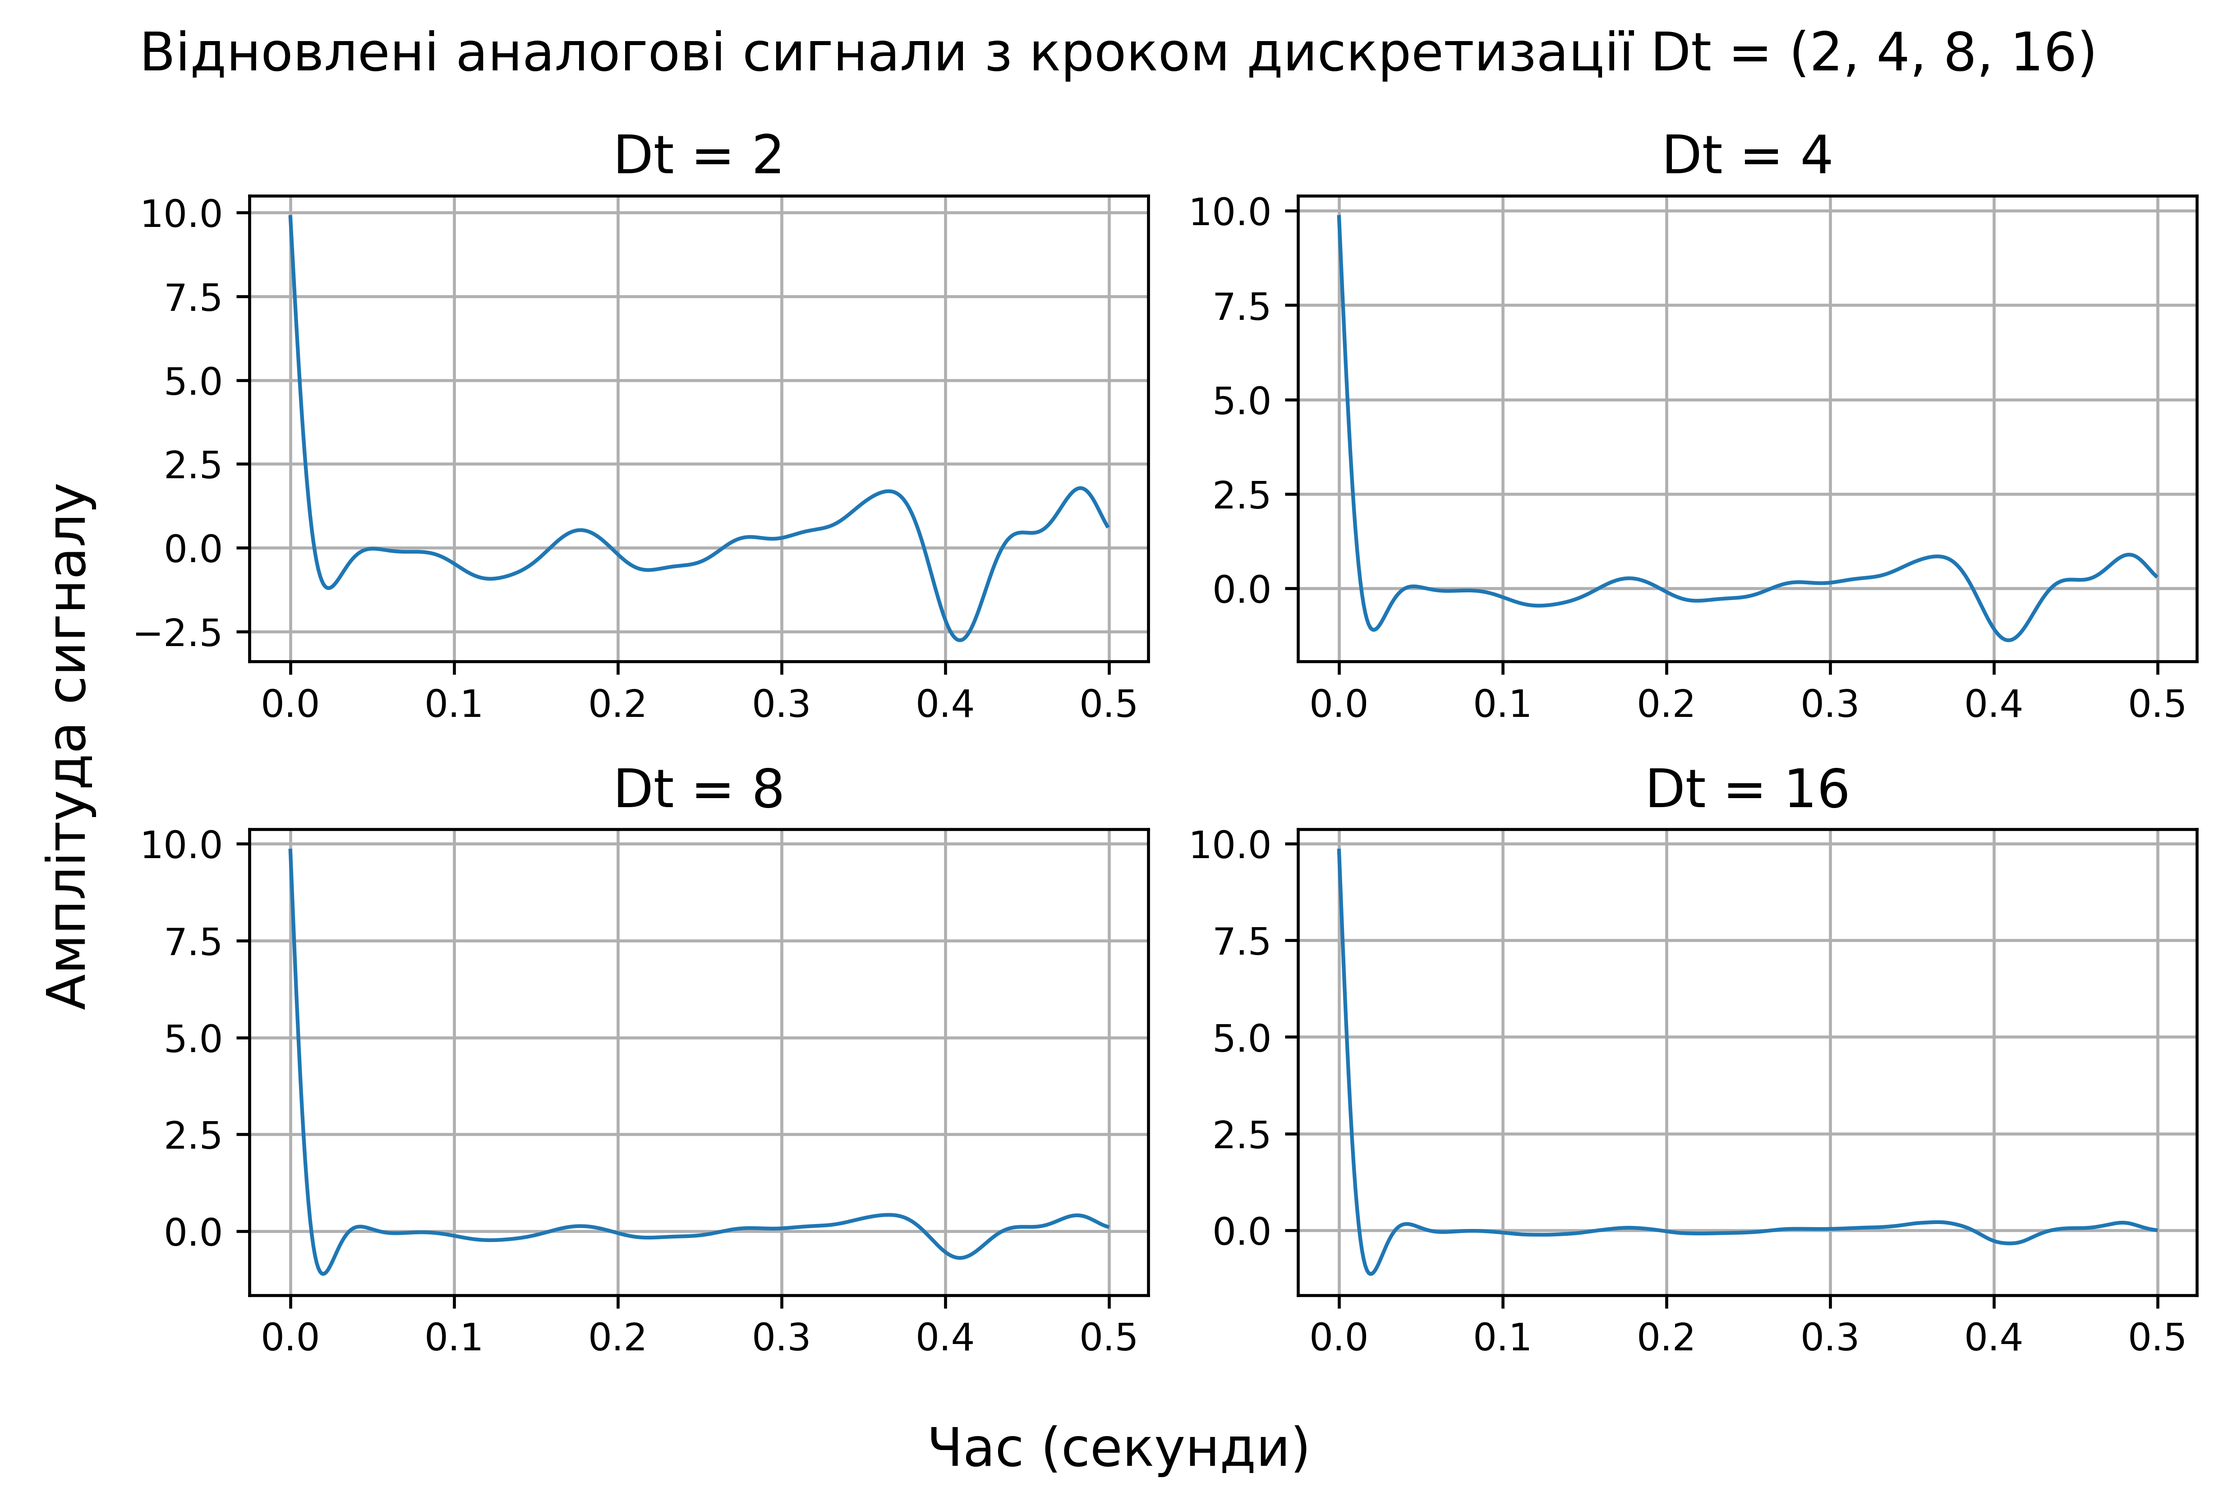
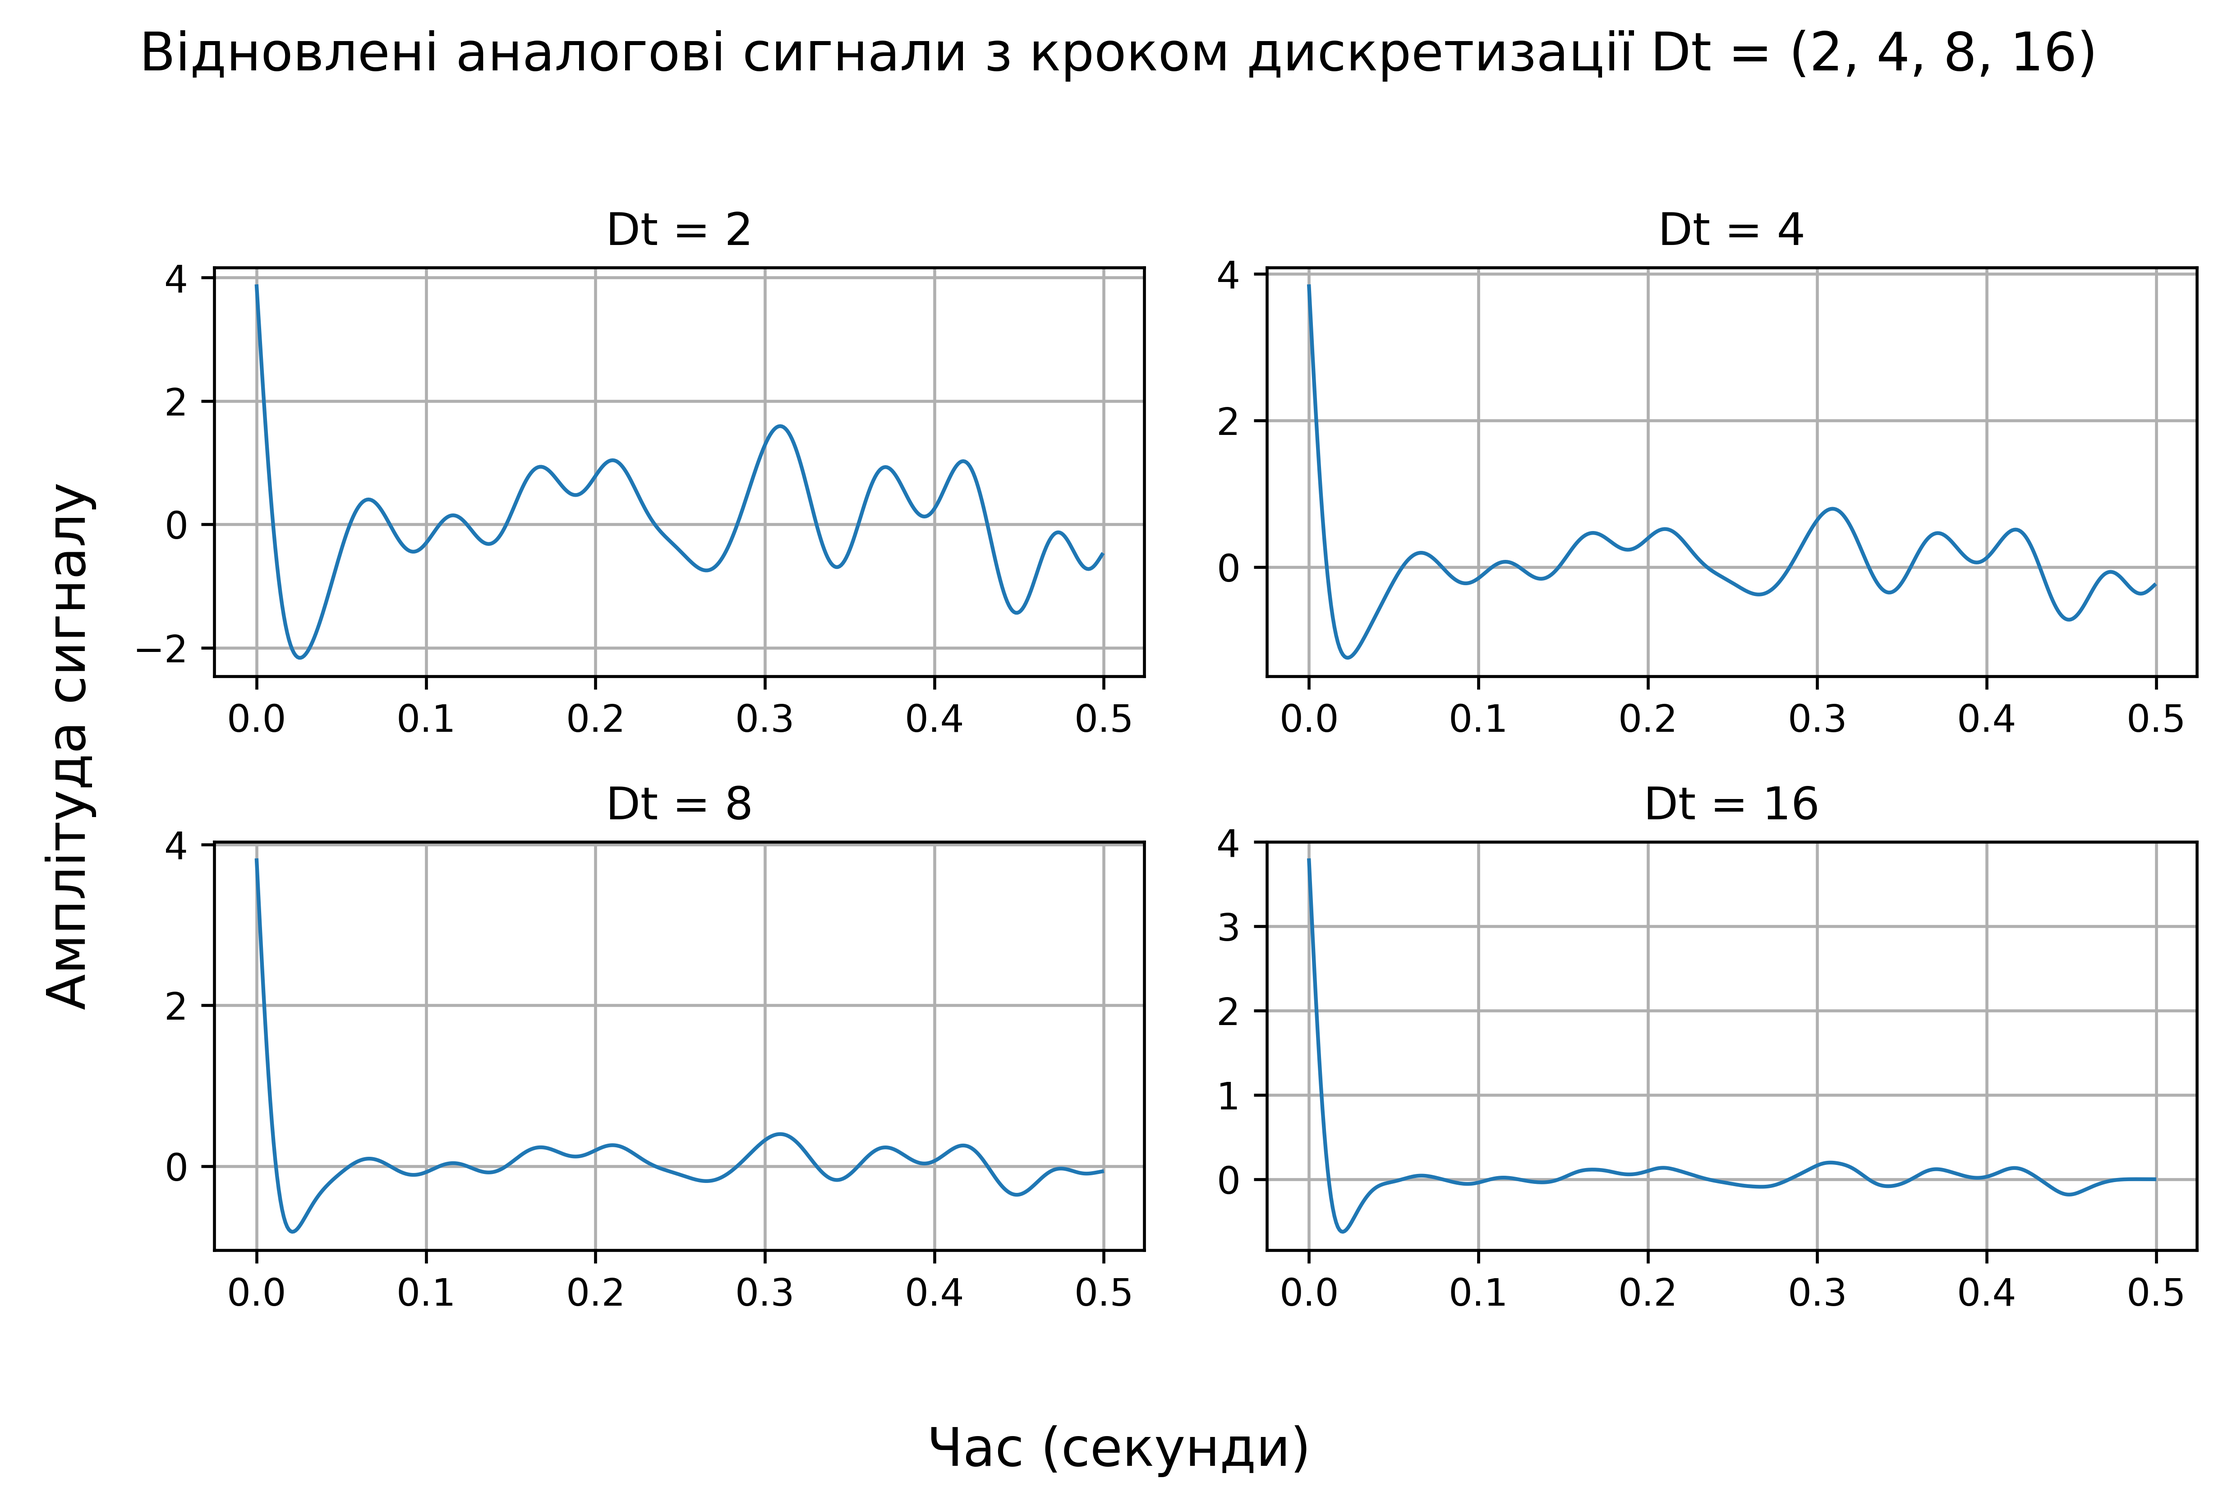
signalprocessing 3-rd  stage

diff --git a/SignalProcessing.py b/SignalProcessing.py
@@ -1,7 +1,7 @@
-import numpy as np
-from scipy import signal, fft
-import matplotlib.pyplot as plt
 import os
+import numpy as np
+import matplotlib.pyplot as plt
+from scipy import signal, fft
 
 
 def generate_signal(n, f_max, fs):
@@ -15,9 +15,22 @@ def generate_signal(n, f_max, fs):
     return time_values, filtered_signal
 
 
-def plot_graph(x, y, title, xlabel, ylabel, filename):
+def calculate_spectrum(sig, fs):
+    spectrum = fft.fft(sig)
+    spectrum_abs = np.abs(fft.fftshift(spectrum))
+    freq = fft.fftfreq(len(sig), d=1 / fs)
+    freq_shifted = fft.fftshift(freq)
+    return freq_shifted, spectrum_abs
+
+
+def plot_graph(x, y, title, xlabel, ylabel, filename, linewidth=1, step=False):
     fig, ax = plt.subplots(figsize=(21 / 2.54, 14 / 2.54))
-    ax.plot(x, y, linewidth=1)
+
+    if step:
+        ax.step(x, y, where='post', linewidth=linewidth)
+    else:
+        ax.plot(x, y, linewidth=linewidth)
+
     ax.set_xlabel(xlabel, fontsize=14)
     ax.set_ylabel(ylabel, fontsize=14)
     ax.set_title(title, fontsize=14)
@@ -27,37 +40,46 @@ def plot_graph(x, y, title, xlabel, ylabel, filename):
     plt.show()
 
 
-def plot_subplots(x, y_list, title, xlabel, ylabel, filenamesave, dt_values):
+def plot_subplots(x, y_list, subplot_titles, title, xlabel, ylabel, filename, step=False):
     fig, ax = plt.subplots(2, 2, figsize=(21 / 2.54, 14 / 2.54))
     s = 0
 
     for i in range(2):
         for j in range(2):
-            ax[i][j].plot(x, y_list[s], linewidth=1)
-            ax[i][j].set_title(f"Dt = {dt_values[s]}", fontsize=14)
+            if step:
+                ax[i][j].step(x, y_list[s], where='post', linewidth=1)
+            else:
+                ax[i][j].plot(x, y_list[s], linewidth=1)
+
+            ax[i][j].set_title(subplot_titles[s], fontsize=12)
             ax[i][j].grid(True)
             s += 1
 
     fig.supxlabel(xlabel, fontsize=14)
     fig.supylabel(ylabel, fontsize=14)
     fig.suptitle(title, fontsize=14)
-    fig.tight_layout()
-    fig.savefig(filenamesave, dpi=600)
+    fig.tight_layout(rect=[0, 0.03, 1, 0.95])
+    fig.savefig(filename, dpi=600)
     plt.show()
 
 
 if __name__ == "__main__":
-    # Варіант 9
+    np.random.seed(42)
+
+    # ---------------- Загальні параметри ----------------
     n = 500
     Fs = 1000
-    F_max = 19
-    F_filter = 26
+    F_max = 19          # Варіант 9 для ПР2/ПР4
+    F_filter = 26       # Варіант 9 для ПР3
     Dt_values = [2, 4, 8, 16]
+    M_values = [4, 16, 64, 256]
 
     if not os.path.exists("figures"):
         os.makedirs("figures")
 
-    # ---------------- ПР2: генерація сигналу ----------------
+    # ====================================================
+    #                   ПРАКТИЧНА РОБОТА 2
+    # ====================================================
     time_values, filtered_signal = generate_signal(n, F_max, Fs)
 
     plot_graph(
@@ -69,10 +91,7 @@ if __name__ == "__main__":
         f"./figures/Сигнал_Fmax_{F_max}Гц.png"
     )
 
-    spectrum = fft.fft(filtered_signal)
-    spectrum_abs = np.abs(fft.fftshift(spectrum))
-    freq = fft.fftfreq(n, d=1 / Fs)
-    freq_shifted = fft.fftshift(freq)
+    freq_shifted, spectrum_abs = calculate_spectrum(filtered_signal, Fs)
 
     plot_graph(
         freq_shifted,
@@ -83,15 +102,19 @@ if __name__ == "__main__":
         f"./figures/Спектр_Fmax_{F_max}Гц.png"
     )
 
-    # ---------------- ПР3 ----------------
+    # ====================================================
+    #                   ПРАКТИЧНА РОБОТА 3
+    # ====================================================
     discrete_signals = []
     discrete_spectrums = []
     restored_signals = []
-    variances = []
-    snr_ratios = []
+    variances_pr3 = []
+    snr_ratios_pr3 = []
+
+    w_restore = F_filter / (Fs / 2)
+    restore_filter = signal.butter(3, w_restore, 'low', output='sos')
 
     for Dt in Dt_values:
-        # Дискретизація сигналу
         discrete_signal = np.zeros(n)
 
         for i in range(0, round(n / Dt)):
@@ -99,75 +122,169 @@ if __name__ == "__main__":
             if index < n:
                 discrete_signal[index] = filtered_signal[index]
 
-        discrete_signals.append(discrete_signal.tolist())
+        discrete_signals.append(discrete_signal.copy())
 
-        # Спектр дискретизованого сигналу
-        discrete_spectrum = np.abs(fft.fftshift(fft.fft(discrete_signal)))
-        discrete_spectrums.append(discrete_spectrum.tolist())
+        _, discrete_spectrum = calculate_spectrum(discrete_signal, Fs)
+        discrete_spectrums.append(discrete_spectrum.copy())
 
-        # Відновлення сигналу через ФНЧ
-        w_restore = F_filter / (Fs / 2)
-        restore_filter = signal.butter(3, w_restore, 'low', output='sos')
         restored_signal = signal.sosfiltfilt(restore_filter, discrete_signal)
-        restored_signals.append(restored_signal.tolist())
+        restored_signals.append(restored_signal.copy())
 
-        # Дисперсія та співвідношення сигнал-шум
         E1 = restored_signal - filtered_signal
         variance_error = np.var(E1)
-        snr = np.var(filtered_signal) / variance_error
+        snr_value = np.var(filtered_signal) / variance_error if variance_error != 0 else np.inf
 
-        variances.append(variance_error)
-        snr_ratios.append(snr)
+        variances_pr3.append(variance_error)
+        snr_ratios_pr3.append(snr_value)
 
-    # Графік дискретизованих сигналів
     plot_subplots(
         time_values,
         discrete_signals,
+        [f"Dt = {dt}" for dt in Dt_values],
         "Сигнали з кроком дискретизації Dt = (2, 4, 8, 16)",
         "Час (секунди)",
         "Амплітуда сигналу",
-        "./figures/Дискретизовані сигнали.png",
-        Dt_values
+        "./figures/Дискретизовані сигнали.png"
     )
 
-    # Графік спектрів дискретизованих сигналів
     plot_subplots(
         freq_shifted,
         discrete_spectrums,
+        [f"Dt = {dt}" for dt in Dt_values],
         "Спектри сигналів з кроком дискретизації Dt = (2, 4, 8, 16)",
         "Частота (Гц)",
         "Амплітуда спектру",
-        "./figures/Спектри дискретизованих сигналів.png",
-        Dt_values
+        "./figures/Спектри дискретизованих сигналів.png"
     )
 
-    # Графік відновлених сигналів
     plot_subplots(
         time_values,
         restored_signals,
+        [f"Dt = {dt}" for dt in Dt_values],
         "Відновлені аналогові сигнали з кроком дискретизації Dt = (2, 4, 8, 16)",
         "Час (секунди)",
         "Амплітуда сигналу",
-        "./figures/Відновлені сигнали.png",
-        Dt_values
+        "./figures/Відновлені сигнали.png"
     )
 
-    # Графік дисперсії
     plot_graph(
         Dt_values,
-        variances,
+        variances_pr3,
         "Залежність дисперсії від кроку дискретизації",
         "Крок дискретизації",
         "Дисперсія",
         "./figures/Дисперсія від кроку дискретизації.png"
     )
 
-    # Графік співвідношення сигнал-шум
     plot_graph(
         Dt_values,
-        snr_ratios,
+        snr_ratios_pr3,
         "Залежність співвідношення сигнал-шум від кроку дискретизації",
         "Крок дискретизації",
         "ССШ",
         "./figures/ССШ від кроку дискретизації.png"
+    )
+
+    # ====================================================
+    #                   ПРАКТИЧНА РОБОТА 4
+    # ====================================================
+    quantized_signals = []
+    variances_pr4 = []
+    snr_ratios_pr4 = []
+
+    for M in M_values:
+        bits = []
+
+        delta = (np.max(filtered_signal) - np.min(filtered_signal)) / (M - 1)
+        quantize_signal = delta * np.round(filtered_signal / delta)
+        quantized_signals.append(quantize_signal.copy())
+
+        quantize_levels = np.arange(np.min(quantize_signal), np.max(quantize_signal) + delta, delta)
+        if len(quantize_levels) < M:
+            quantize_levels = np.linspace(np.min(quantize_signal), np.max(quantize_signal), M)
+
+        quantize_levels = np.round(quantize_levels[:M], 10)
+
+        bit_count = int(np.log2(M))
+        quantize_bit = [format(i, '0' + str(bit_count) + 'b') for i in range(M)]
+
+        quantize_table = np.c_[quantize_levels, quantize_bit]
+
+        # Таблиця квантування
+        fig_table, ax_table = plt.subplots(figsize=(14 / 2.54, M / 2.54))
+        table = ax_table.table(
+            cellText=quantize_table,
+            colLabels=['Значення сигналу', 'Кодова послідовність'],
+            loc='center'
+        )
+        table.set_fontsize(14)
+        table.scale(1, 2)
+        ax_table.axis('off')
+        fig_table.tight_layout()
+        fig_table.savefig(f"./figures/Таблиця квантування для {M} рівнів.png", dpi=600)
+        plt.show()
+
+        # Кодування сигналу у біти
+        level_to_bit = {level: bit for level, bit in zip(quantize_levels, quantize_bit)}
+
+        for signal_value in quantize_signal:
+            rounded_value = np.round(signal_value, 10)
+
+            if rounded_value in level_to_bit:
+                bits.append(level_to_bit[rounded_value])
+            else:
+                nearest_index = np.argmin(np.abs(quantize_levels - signal_value))
+                bits.append(quantize_bit[nearest_index])
+
+        bits = [int(item) for item in ''.join(bits)]
+
+        # Графік бітової послідовності
+        fig_bits, ax_bits = plt.subplots(figsize=(21 / 2.54, 14 / 2.54))
+        ax_bits.step(np.arange(0, len(bits)), bits, where='post', linewidth=0.1)
+        ax_bits.set_xlabel('Біти', fontsize=14)
+        ax_bits.set_ylabel('Амплітуда сигналу', fontsize=14)
+        ax_bits.set_title(
+            f'Кодова послідовність сигналу при кількості рівнів квантування {M}',
+            fontsize=14
+        )
+        ax_bits.grid(True)
+        fig_bits.tight_layout()
+        fig_bits.savefig(f"./figures/Кодова послідовність для {M} рівнів.png", dpi=600)
+        plt.show()
+
+        # Дисперсія та ССШ
+        error_signal = quantize_signal - filtered_signal
+        variance_error = np.var(error_signal)
+        snr_value = np.var(filtered_signal) / variance_error if variance_error != 0 else np.inf
+
+        variances_pr4.append(variance_error)
+        snr_ratios_pr4.append(snr_value)
+
+    plot_subplots(
+        time_values,
+        quantized_signals,
+        [f"M = {m}" for m in M_values],
+        "Цифрові сигнали з рівнями квантування (4, 16, 64, 256)",
+        "Час (секунди)",
+        "Амплітуда сигналу",
+        "./figures/Цифрові сигнали з різними рівнями квантування.png",
+        step=True
+    )
+
+    plot_graph(
+        M_values,
+        variances_pr4,
+        "Залежність дисперсії від кількості рівнів квантування",
+        "Кількість рівнів квантування",
+        "Дисперсія",
+        "./figures/Дисперсія від кількості рівнів квантування.png"
+    )
+
+    plot_graph(
+        M_values,
+        snr_ratios_pr4,
+        "Залежність співвідношення сигнал-шум від кількості рівнів квантування",
+        "Кількість рівнів квантування",
+        "ССШ",
+        "./figures/ССШ від кількості рівнів квантування.png"
     )
